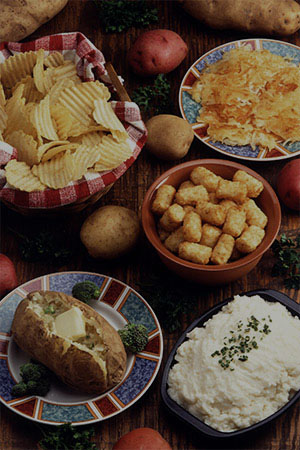
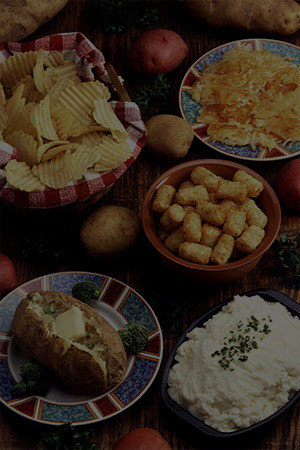
Changed checkout form.  Changed contact form.  Edited image brightness, created new menu.

diff --git a/menu.html b/menu.html
@@ -41,7 +41,7 @@
                         
                     </div>
                     
-                    <div class="button long">Add to Cart</div>
+                    <div class="button long"><a href="checkout.html">Add to Cart</a></div>
         
                 </div>
                 
@@ -60,7 +60,7 @@
                         
                     </div>
                     
-                    <div class="button long">Add to Cart</div>
+                    <div class="button long"><a href="checkout.html">Add to Cart</a></div>
         
                 </div>
                 
@@ -79,7 +79,7 @@
                         
                     </div>
                     
-                    <div class="button long">Add to Cart</div>
+                    <div class="button long"><a href="checkout.html">Add to Cart</a></div>
         
                 </div>
                 
@@ -98,7 +98,7 @@
                         
                     </div>
                     
-                    <div class="button long">Add to Cart</div>
+                    <div class="button long"><a href="checkout.html">Add to Cart</a></div>
         
                 </div>
                 
@@ -125,7 +125,7 @@
                         
                     </div>
                     
-                    <div class="button long">Add to Cart</div>
+                    <div class="button long"><a href="checkout.html">Add to Cart</a></div>
         
                 </div>
             </div>
@@ -142,7 +142,7 @@
                         
                     </div>
                     
-                    <div class="button long">Add to Cart</div>
+                    <div class="button long"><a href="checkout.html">Add to Cart</a></div>
         
                 </div>
                 
@@ -161,7 +161,7 @@
                         
                     </div>
                     
-                    <div class="button long">Add to Cart</div>
+                    <div class="button long"><a href="checkout.html">Add to Cart</a></div>
         
                 </div>
                 
@@ -180,7 +180,7 @@
                         
                     </div>
                     
-                    <div class="button long">Add to Cart</div>
+                    <div class="button long"><a href="checkout.html">Add to Cart</a></div>
         
                 </div>
                 
@@ -206,7 +206,7 @@
                         
                     </div>
                     
-                    <div class="button long">Add to Cart</div>
+                    <div class="button long"><a href="checkout.html">Add to Cart</a></div>
         
                 </div>
                 
@@ -225,7 +225,7 @@
                         
                     </div>
                     
-                    <div class="button long">Add to Cart</div>
+                    <div class="button long"><a href="checkout.html">Add to Cart</a></div>
         
                 </div>
                 
@@ -244,7 +244,7 @@
                         
                     </div>
                     
-                    <div class="button long">Add to Cart</div>
+                    <div class="button long"><a href="checkout.html">Add to Cart</a></div>
         
                 </div>
                 
@@ -263,7 +263,7 @@
                         
                     </div>
                     
-                    <div class="button long">Add to Cart</div>
+                    <div class="button long"><a href="checkout.html">Add to Cart</a></div>
         
                 </div>
                 
@@ -290,7 +290,7 @@
                         
                     </div>
                     
-                    <div class="button long">Add to Cart</div>
+                    <div class="button long"><a href="checkout.html">Add to Cart</a></div>
         
                 </div>
                 
@@ -309,7 +309,7 @@
                         
                     </div>
                     
-                    <div class="button long">Add to Cart</div>
+                    <div class="button long"><a href="checkout.html">Add to Cart</a></div>
         
                 </div>
                 
@@ -328,7 +328,7 @@
                         
                     </div>
                     
-                    <div class="button long">Add to Cart</div>
+                    <div class="button long"><a href="checkout.html">Add to Cart</a></div>
         
                 </div>
                 
@@ -346,7 +346,7 @@
                         
                     </div>
                     
-                    <div class="button long">Add to Cart</div>
+                    <div class="button long"><a href="checkout.html">Add to Cart</a></div>
         
                 </div>
                 

diff --git a/css/style.css b/css/style.css
@@ -22,6 +22,7 @@ h3 { font-family: "arial black", arial, sans-serif; font-size: 2em; color: #0F4D
 h4 { text-align: center; color: #0F4D21; text-transform: uppercase; font-family: arial black, arial, sans-serif;}
 a { color: #0F4D21; font-weight: bold; text-decoration: none; }
 a:hover { text-decoration: underline; }
+b { color: #0F2D21;}
 
 .container { margin: 10px auto; padding: 10px; width: 75%; max-width: 930px; background-color: #eee; border: 1px solid #0F4D21; }
 
@@ -34,6 +35,7 @@ input { background-color: #fff; border: 1px solid #0F4D21; margin-bottom: 5px;}
 #adprompt a:hover { color: #0F4D21; }
 .adcontainer { margin: 10px auto; width: 75%; max-width: 950px; }
 .mainad { width: 33%; max-width: 300px; height: 300px; float: left; margin-bottom: 10px; color: #fff; text-align: center; text-transform: uppercase; border: 1px solid #0F4D21; }
+.mainad b {color: #fff;}
 h2 {font-size: 2em; line-height: 0px;}
 .plain { color: #000; text-transform: none;}
 .plain h2 {color: #0F4D21; line-height: 0.8em;}
@@ -64,24 +66,28 @@ h2 {font-size: 2em; line-height: 0px;}
 
 #con { margin: 40px auto; width: 80%; line-height: 1.5em; min-height: 620px;}
 textarea { width: 100%; height: 200px; background-color: #fff; font-family: arial; border: 1px solid #0F4D21; }
-#submit { margin-top: 10px; position: relative; left: 5px; padding: 10px; width: 150px; float: right; cursor: pointer; background-color: #fff; font-family: "arial black", arial, sans-serif; font-size: 1em; color: #0F4D21; text-transform: uppercase; border: 1px solid #0F4D21;}
-.chalf {width: calc(50% - 10px);}
-.textt { display: inline-block;}
+#submit { margin-top: 10px; position: relative; left: 5px; padding: 10px; width: 150px; float: right; cursor: pointer; background-color: #fff; font-family: "arial black", arial, sans-serif; font-size: 1em; color: #0F4D21; text-transform: uppercase; border: 1px solid #0F4D21; }
+.chalf {width: calc(50% - 10px); }
+.textt { display: inline-block; }
 .subjectt {width: 100%;}
+
+.googlemapsucks { width: 40%; transform: translate(0, 30px);}
+.moveujerk {width: 350px; float: right;}
+.screaming {height: 350px;}
 
 /* CHECKOUT PAGE */
 
 .why {width: 100%;}
 
-#check {margin: 10px auto; width: 70%; line-height: 1.5em;}
+#check {margin: 40px auto; width: 80%; line-height: 1.5em; min-height: 620px;}
 #comments { width: 310px; height: 150px;}
 input:hover {text-decoration: underline;}
 .line { display: inline-block; width: 70px;}
 
-.name {display: inline-block; width: 50%; margin-bottom: 5px; }
-#name {width: calc(100% - 100px); margin-right: 10px;}
+.name {display: inline-block; width: calc(65% - 45px); margin-bottom: 5px; margin-right: 10px; }
+#name {width: calc(100% - 83px); margin-right: 10px;}
 
-#email {width: calc(50% - 60px);}
+#email {width: calc(35% - 25px);}
 
 .address {display: inline-block; width: calc(65% - 45px); margin-bottom: 5px; margin-right: 10px;}
 #address {width: calc(100% - 80px);}
@@ -93,6 +99,6 @@ input:hover {text-decoration: underline;}
 
 #postal {width: calc(35% - 75px);}
 
-#requests { display: block; width: 65%; height: 200px; margin: 0px auto 10px auto;}
+#requests { display: block; width: 100%; height: 200px; margin: 0px auto 10px auto;}
 
 .summaryt { width: calc(100% - 210px); line-height: 200px; margin-left: 10px; text-transform: uppercase; color: #0F4D21; font-family: "arial black", arial, sans-serif; }

diff --git a/checkout.html b/checkout.html
@@ -51,19 +51,20 @@
                 <br><br><h3>Order Summary</h3><br>
                 
                 <div class="summary">
-                    <div style="width: 200px; height: 200px; display: inline-block"><img src="img/menu/12.png"></div><div style="height: 200px; float: right;" class="summaryt">Sweet Potato Fries x 1</div>
+                    <div style="width: 200px; height: 200px; display: inline-block"><img src="img/menu/12.png"></div><div style="height: 200px; float: right;" class="summaryt">Yam Fries x 1, $8</div>
                 </div>
                 
                 <div class="summary" style="min-height: 275px;">
-                    <div style="width: 200px; height: 200px; display: inline-block"><img src="img/menu/16.png"></div><div style="height: 200px; float: right;" class="summaryt">Kid's Greek Potatoes x 1</div>
+                    <div style="width: 200px; height: 200px; display: inline-block"><img src="img/menu/16.png"></div><div style="height: 200px; float: right;" class="summaryt">Kid's Greek Potatoes x 1, $6</div>
                 </div>
                 
-                <div class="button long" style="position: relative; top: -50px;"><a href="menu.html">Add to order</a>
-                </div>
-            
-                <div class="buttons">
-                    <div class="button" style="float:right; margin-left: 10px;"><a href="index.html">Cancel</a></div><input type="submit" id="submit" value="Checkout" style="height: 44px; position: relative; top: -10px;">
-                    </div>
+                <b>Delivery Fee:</b> $4<br>
+                <b>Total:</b> $18
+                
+                <div class="button" style="float: right; margin-left: 10px;"><a href="index.html">Cancel</a></div>
+                
+                <input type="submit" id="submit" value="Checkout" style="height: 46px; position: relative; top: -10px;">
+                    
                 </div>
                 </form>
         

diff --git a/contact.html b/contact.html
@@ -20,6 +20,25 @@
             <h3>Get us on the horn</h3>
             
             <div id="con">
+                
+                <div class="screaming">
+                    
+                <div class="moveujerk">
+                    <iframe width="350" height="300" frameborder="0" style="border:0" src="https://www.google.com/maps/embed/v1/place?q=8680%20rosehill%20drive%2C%20richmond%2C%20bc%2C%20canada&key=AIzaSyBdfEP8aaMlFkeJiXHFbz9sPzw-L3tBbwc" allowfullscreen></iframe>
+                </div>
+                    
+            <div class="googlemapsucks">
+                Tel: 604-768-2862<br>
+                Email: contact@pbaron.com<br>
+                Address:<br>
+                1234 Real st.<br>
+                Richmond, BC, Canada<br>
+                V7A 2K1
+            </div>
+                    
+                    </div>
+                
+                
             <form id="contact">
                 <div class="chalf textt" style="margin-right: 10px;">Name:</div>
                 <div class="chalf textt">Email:</div>
